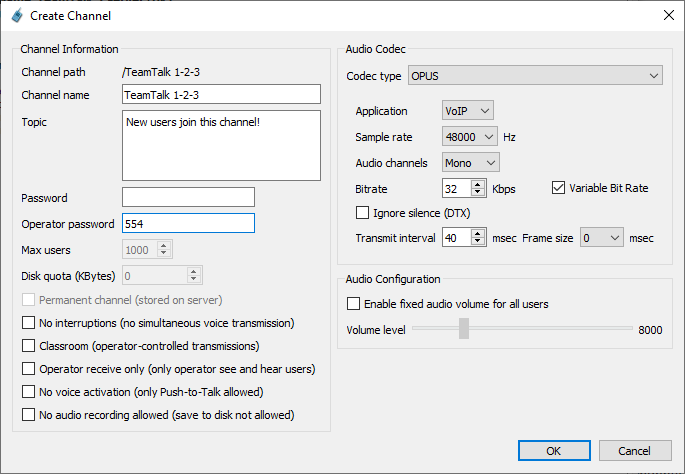
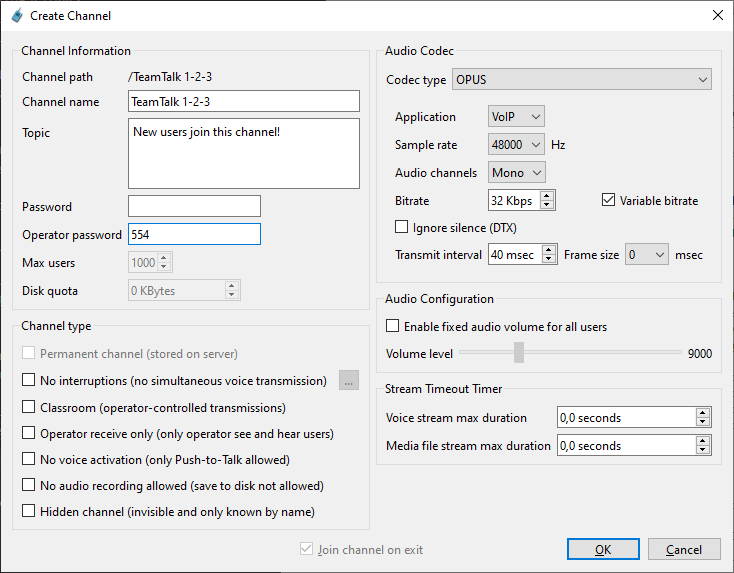
Document 'Stream Timeout timer' in 'Create Channel' dialog

diff --git a/Documentation/TeamTalk/userinterface.md b/Documentation/TeamTalk/userinterface.md
@@ -1078,14 +1078,28 @@ Each of the fields in the create channel dialog are described here:
              - The number of milliseconds of recorded audio before the
                TeamTalk client should transmit.
 
-- **Enable fixed audio volume for all users**
-    - In most cases users have microphones with different audio volume
-      levels which makes some users louder than others. Enabling this
-      option ensures that all users in the channel speaks at the same
-      audio volume level. Note that this option may reduce audio
-      quality.
-- **Volume level**
-    - The reference volume all users in the channel should use.
+- **Audio Configuration**
+    - **Enable fixed audio volume for all users**
+        - In most cases users have microphones with different audio volume
+          levels which makes some users louder than others. Enabling this
+          option ensures that all users in the channel speaks at the same
+          audio volume level. Note that this option may reduce audio
+          quality.
+    - **Volume level**
+        - The reference volume all users in the channel should use.
+
+- **Stream Timeout Timer**
+    - **Voice stream max duration**
+        - The maximum time a user can transmit voice to a channel
+          without toggling the Push-to-Talk button or retrigger
+          voice activation.
+        - This feature is especially useful when using channel type
+          *No interruptions* because no one is then able to block the
+          transmission queue for an indefinite amount of time.
+    - **Media file stream max duration**
+        - The maximum time a user can stream a media file to a channel
+          without starting a new media file.
+
 
 ## Classroom Channel Type {#classroom}
 
